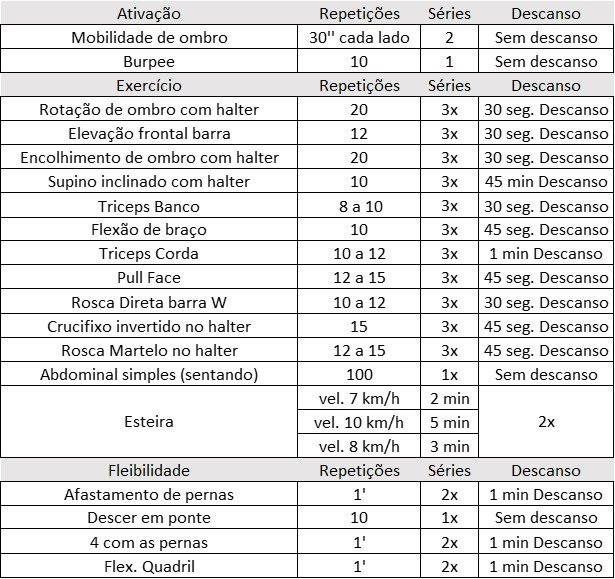
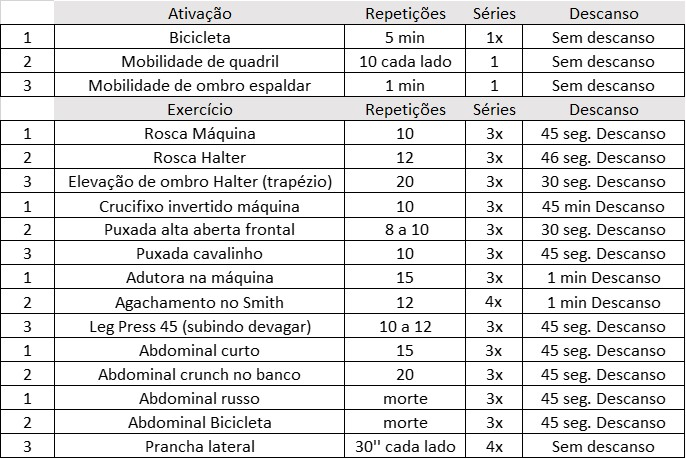
dani

diff --git a/docs/atletas/4117.html b/docs/atletas/4117.html
@@ -38,12 +38,12 @@
                 <img class="cara" src="../galeria/daniestat.jpg">
                 <p>Treino: Academia e casa
             </br>
-           Frequência: No mínimo 4x por semana na academia e 1x em casa.
+           Frequência: No mínimo 4x por semana na academia.
         </br>
-        Objetivo: Melhoria do tônus muscular para o pole dance, ênfase em condicionamento físico e perca de gordura.
+        Objetivo: Melhoria do tônus muscular para o pole dance, ênfase em hipertrofia.
         </br>
         Característica: Os treinos terão características diversas, focados ao objetivo já mencionado e à rotina. Na semana é obrigatório
-        realizar pelo menos 2x cada treino. Sendo treino A e B na academia e o C em casa.
+        realizar pelo menos 4x. Sendo treino A e B, depois uma mistura, dando origem ao treino 1, 2 e 3.
             </p>
             </div>
         </section>
@@ -52,7 +52,7 @@
             <header class="depoimento_conteudo bloco_cabecalho_degrade">Informações gerais </a></header>
             <div class="segundapagina espaco">   
             <div class="galeria">
-                <iframe width="314" height="225" src="https://www.youtube.com/embed/_E9qk_zIl5U"frameborder="0"
+                <iframe width="314" height="225" src="https://www.youtube.com/embed/nXTr5z1Vs2k"frameborder="0"
                     allow="accelerometer; autoplay; encrypted-media; gyroscope; picture-in-picture"
                     allowfullscreen></iframe>
             </div>
@@ -63,15 +63,12 @@
             <header class="depoimento_conteudo bloco_cabecalho_degrade">Treino A </a></header>
             <div class="segundapagina espaco">   
                 <img class="shoot" src="../galeria/daniestata.jpg">
-                <p>O treino A é feito com exercícios de membros superiores e abdômen. Com atenção nos exercícios que possuem 
-                    intervalo de repetições. Vale ressaltar que a carga deve respeitar as repetições, ou seja, se ao acabar o exercícío 
-                    você conseguir fazer 50% a mais do que o normal, aumentar a carga. Exemplo: 4x10 na ultima série conseguiria fazer mais 5, aumentar o peso.
-                    Atenção em tensionar o pescoço, e sempre manter o abdômen contraído. Na esteira, teremos a velocidade controlada em 2 séries,
-                    respeitar o tempo em cada velocidade estipulada. Ao seu término, caso queira ficar mais tempo na esteira, é livre.
-                    Respeitar o tempo de descanso.      
+                <p>O treino A é um treino mais longo, com ênfase no corpo todo. Atenção na execução do movimento, principalmente 
+                    em momentos em que o músculo está quase fadigando. Execução sempre em extensão e flexão total, sem "roubar" parando
+                     na metade do caminho. E tudo bem se não chegar no número de repetições estipuladas, fadigando o músculo é o que importa.    
             </p>
             <div class="galeria">
-                <iframe width="314" height="225" src="https://www.youtube.com/embed/-WjI3JuyO3o"frameborder="0"
+                <iframe width="314" height="225" src="https://www.youtube.com/embed/4TZ9UtE5SPk"frameborder="0"
                     allow="accelerometer; autoplay; encrypted-media; gyroscope; picture-in-picture"
                     allowfullscreen></iframe>
             </div>
@@ -82,21 +79,19 @@
             <header class="depoimento_conteudo bloco_cabecalho_degrade">Treino B </a></header>
             <div class="segundapagina espaco">   
                 <img class="shoot" src="../galeria/daniestatb.jpg">
-                <p>O treino B é feito com exercícios de membros inferiores e abdômen. Atenção na execução do movimento.
-                    Focar bastante na amplitude dos exercícios e não realizar as repetições rápidas, executar
-                    movimentos lentos e precisos com foco em pescoço e lombar. Atenção nos exercícios que são unilaterais e atenção 
-                    na possibilidade de aumento de carga, principalmente no Leg Press, bora aumentar esse peso ae.
-                    Respeitar o tempo de descanso. 
+                <p>O treino B é um treino mais longo, com ênfase no corpo todo. Atenção na execução do movimento, principalmente 
+                    em momentos em que o músculo está quase fadigando. Execução sempre em extensão e flexão total, sem "roubar" parando
+                     na metade do caminho. E tudo bem se não chegar no número de repetições estipuladas, fadigando o músculo é o que importa.
                 </p>
             <div class="galeria">
-                <iframe width="314" height="225" src="https://www.youtube.com/embed/O-QkaksNDqo"frameborder="0"
+                <iframe width="314" height="225" src="https://www.youtube.com/embed/1-zqCOC2o7U"frameborder="0"
                     allow="accelerometer; autoplay; encrypted-media; gyroscope; picture-in-picture"
                     allowfullscreen></iframe>
             </div>
             </div>
         </section>
 
-        <section class="materias">
+        <!-- <section class="materias">
             <header class="depoimento_conteudo bloco_cabecalho_degrade">Treino C </a></header>
             <div class="segundapagina espaco">   
                 <img class="shoot" src="../galeria/daniestatc.jpg">
@@ -113,7 +108,7 @@
                     allowfullscreen></iframe>
             </div>
             </div>
-        </section>
+        </section> -->
         
         <section class="contato bloco ">
             <header class="contato_cabecalho bloco_cabecalho_degrade">Feedback</header>
